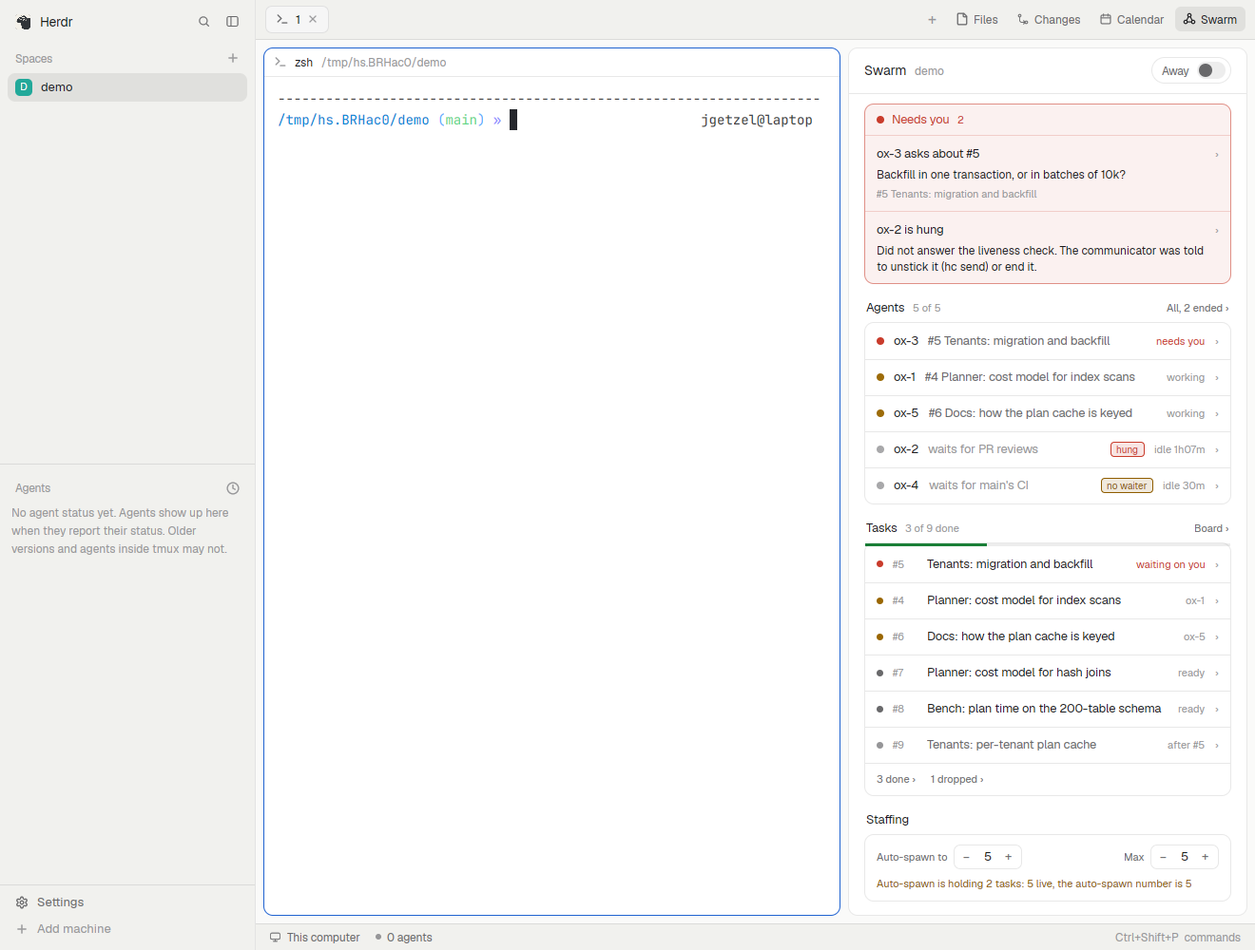
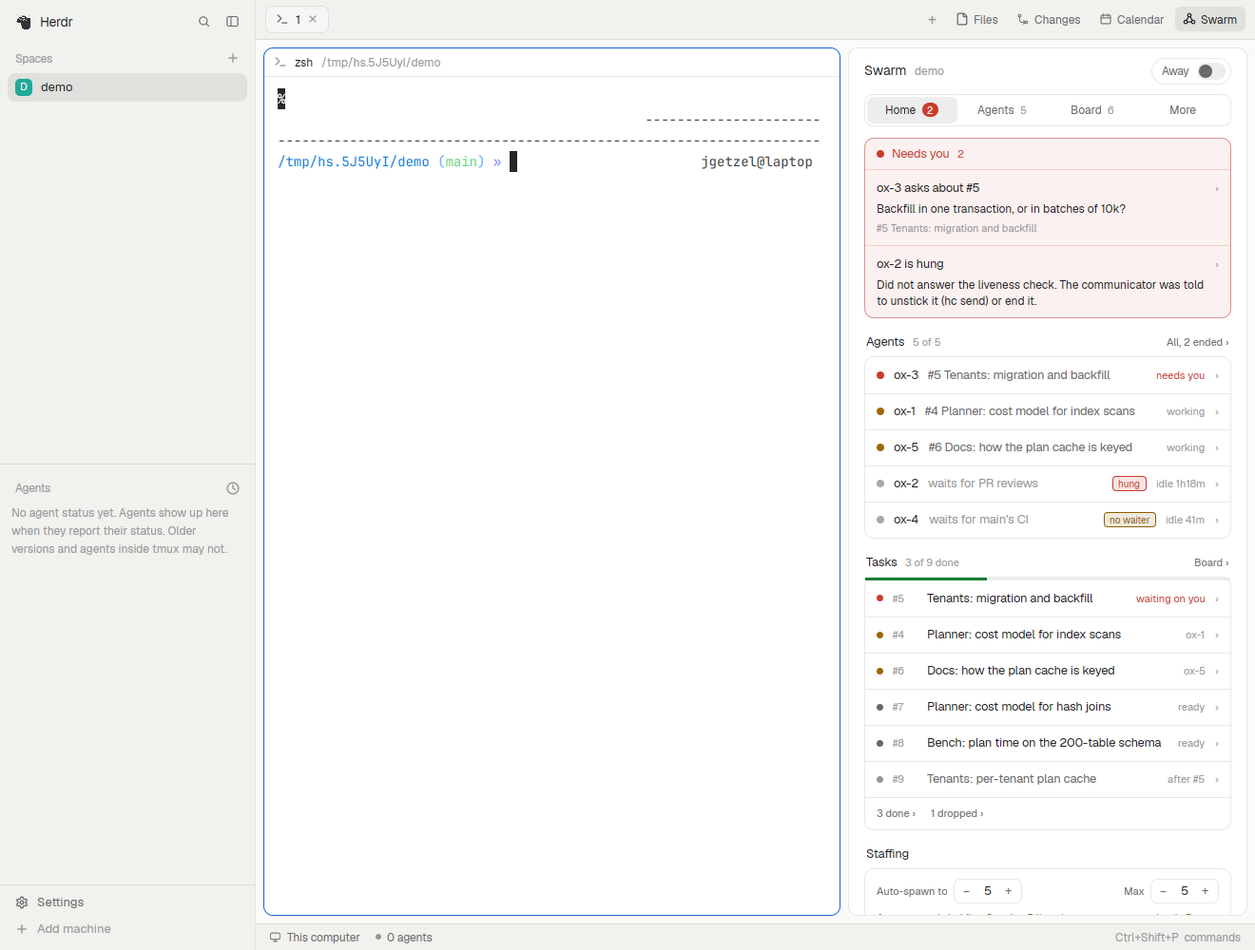
swarm panel redesign, revision 2: nav bar, why-kept section, wider action list (board #39)
Swarm-Agent: ll-ui

diff --git a/swarm/herdr/mods/swarm/main.js b/swarm/herdr/mods/swarm/main.js
@@ -137,7 +137,7 @@ export default class Swarm extends View {
   init(_props, cx) {
     this.s = null; this.prs = null; this.runs = null; this.error = null;
     this.seen = new Set(); this.fresh = new Set(); this.delay = new Map(); this.open = {}; this.width = 520;
-    this.stack = SCREEN === "home" ? [route(SCREEN)] : [{ s: "home" }, route(SCREEN)]; this.flash = null; this.pending = null; this.actFilter = "all";
+    const r0 = route(SCREEN); this.stack = r0.s === "task" ? [{ s: "board", f: "active" }, r0] : r0.s === "agent" ? [{ s: "agents" }, r0] : [r0]; this.flash = null; this.pending = null; this.actFilter = "all";
     this.refresh(cx); this.copyIcons(cx);
     // Data timers only; each tick returns at once while the panel isn't shown or nothing is due.
     cx.timer.every(POLL, cx => { if (this.visible() && this.due()) this.refresh(cx); });
@@ -266,9 +266,11 @@ export default class Swarm extends View {
   }
 
   // ---- screens and actions -------------------------------------------------------------------
-  // A screen opens on top of the last one and slides in; ‹ goes back. Rows re-run their staggered entrance.
+  // The nav bar's four sections are roots. A task or an agent opens on top of the screen it was picked on and
+  // slides in; ‹ goes back. Rows re-run their staggered entrance.
   push(r, cx) {
-    if (JSON.stringify(r) !== this.view()) this.stack.push(r);
+    if (r.s !== "task" && r.s !== "agent") this.stack = [r];
+    else if (JSON.stringify(r) !== this.view()) this.stack.push(r);
     this.landed(cx);
   }
   back(cx) { if (this.stack.length > 1) this.stack.pop(); this.landed(cx); }
@@ -444,7 +446,7 @@ export default class Swarm extends View {
   agentRow(t, a, i, d) {
     const ended = a.status === "ended", sign = !ended && SIGN[a.stay_sign];
     const what = a.task ? `#${a.task.id} ${a.task.title}` : ended ? [a.model, a.ended ? `ended ${hhmm(a.ended)}` : null].filter(Boolean).join(" · ") : a.stay ? `waits for ${a.stay}` : "no task";
-    const right = ended ? "" : a.status === "working" ? "working" : a.status === "blocked" ? "needs you" : `idle ${ago(a.idle_s)}`;
+    const right = ended ? "" : a.status === "working" ? "working" : a.status === "blocked" ? "needs you" : `idle ${ago(a.idle_s)}${a.fate?.short ? `: ${a.fate.short}` : ""}`;
     return this.row(t, `agent-${a.name}`, i, cx => this.push({ s: "agent", name: a.name }, cx))
       .child(this.dot(this.statusColor(t, a.status)).when(a.status === "working", el => el.loop("opacity", { from: 0.35, to: 1, period: 1400 })))
       .child(div().flex_none().font_semibold().text_color(ended ? t.muted : t.foreground).child(a.name))
@@ -528,20 +530,11 @@ export default class Swarm extends View {
           .child(this.more(t, "done-link", `${nd} done ›`, cx => this.push({ s: "board", f: "done" }, cx)))
           .when(ndrop > 0, el => el.child(this.more(t, "drop-link", `${ndrop} dropped ›`, cx => this.push({ s: "board", f: "dropped" }, cx))))));
     const staff = v_flex().min_w(0).child(this.title(t, "Staffing")).child(this.group(t, "g-staff").px(12).py(10).child(this.staffing(t)));
-    const alert = d.reds > 0 || s.conflicts.length > 0 || s.pressure.some(p => !p.end) || s.machine?.high;
-    const last = this.actRows(t, d, "all")[0];
-    const more = v_flex().min_w(0).child(this.title(t, "More")).child(this.group(t, "g-more")
-      .child(this.row(t, "m-act", 0, cx => this.push({ s: "more", tab: "activity" }, cx)).child(div().flex_none().child("Activity"))
-        .child(div().flex_1().min_w(0).truncate().text_size(11).text_color(t.dim).child(last ? `${hhmm(last.ts)} ${last.who} ${last.text}` : "what happened, and the full log"))
-        .child(this.chev(t, "right")))
-      .child(this.row(t, "m-sys", 1, cx => this.push({ s: "more", tab: "system" }, cx)).child(div().flex_none().child("System"))
-        .child(div().flex_1().min_w(0).truncate().text_size(11).text_color(t.dim).child("CI, pull requests, machine, locks, command cost"))
-        .when(Boolean(alert), el => el.child(this.dot(t.blocked, 6))).child(this.chev(t, "right"))));
     const att = this.attention(t, d);
     if (two) return h_flex().gap(16).items_start()
-      .child(v_flex().gap(10).min_w(0).flex_grow(1).flex_basis(0).child(att).child(agents).child(staff))
-      .child(v_flex().gap(10).min_w(0).flex_grow(1).flex_basis(0).child(tasks).child(more));
-    return v_flex().gap(10).child(att).child(agents).child(tasks).child(staff).child(more);
+      .child(v_flex().gap(10).min_w(0).flex_grow(1).flex_basis(0).child(att).child(agents))
+      .child(v_flex().gap(10).min_w(0).flex_grow(1).flex_basis(0).child(tasks).child(staff));
+    return v_flex().gap(10).child(att).child(agents).child(tasks).child(staff);
   }
 
   // ---- Agents: running, the communicator, ended -------------------------------------------------
@@ -689,6 +682,14 @@ export default class Swarm extends View {
         .child(task ? this.group(t, "a-task", task.state === "blocked").child(this.taskRow(t, task, 0))
             .when(task.state === "blocked", el => el.child(div().px(12).pb(10).line_height("17px").whitespace_normal().child(one(task.question))))
           : this.empty(t, isComms ? "No task: the communicator is your channel to the swarm" : a.stay ? `No task: it waits for ${a.stay}` : "No task")))
+      // state --json's fate: watchd's verdict on an idle agent and each check behind it; the panel never re-derives it.
+      .when(Boolean(a.fate), el => el.child(v_flex().child(this.title(t, a.fate.verdict === "end" ? "Why it is about to end" : "Why it is still here", "watchd's own checks"))
+        .child(this.group(t, "a-fate")
+          .child(div().px(12).py(9).line_height("17px").whitespace_normal().child(a.fate.says))
+          .children(a.fate.checks.map((c, i) => this.row(t, `a-fate-${i}`, 1).h(30).text_size(12)
+            .child(this.dot(c.on ? t.ansi3 : t.selected, 7))
+            .child(div().flex_none().text_color(c.on ? t.foreground : t.dim).child(c.label))
+            .child(div().flex_1().min_w(0).truncate().text_right().text_color(t.dim).child(c.detail ?? "")))))))
       .child(this.facts(t, "a-facts", [
         a.stay ? ["Waits for", a.stay] : null,
         ["Model", [a.model ?? "?", a.started ? `started ${hhmm(a.started)}` : null, a.hc ? `terminal ${a.hc}` : null].filter(Boolean).join(" · ")],
@@ -1060,6 +1061,26 @@ export default class Swarm extends View {
       .child(this.link(t, "flash-x", "Dismiss", cx => { this.flash = null; cx.notify(); }).pt(5));
   }
 
+  // Home, Agents, Board, More on every screen, the shown screen's section marked: a task counts as Board, an
+  // agent as Agents. Four equal segments of the panel's width; the mark slides. Home's badge counts what needs
+  // you, More's dot is a System problem. At 340px and below the counts go and the labels stay.
+  navBar(t, d) {
+    const s = this.s, r = this.r, cur = r.s === "task" ? "board" : r.s === "agent" ? "agents" : r.s;
+    const need = this.needs(t, d).length, left = d.count("blocked") + d.count("claimed") + d.count("open"), tiny = this.width <= 340;
+    const alert = d.reds > 0 || s.conflicts.length > 0 || s.pressure.some(p => !p.end) || s.machine?.high;
+    const items = [["home", "Home", need || null, true], ["agents", "Agents", d.live.length], ["board", "Board", left], ["more", "More", alert ? "" : null, true]];
+    const w = (this.width - 2 - 32 - 6) / 4, at = Math.max(0, items.findIndex(i => i[0] === cur));
+    return div().flex_none().mx(16).mb(2).relative().h(34).rounded(9).bg(t.surface).border_1().border_color(t.border)
+      .child(div().id("nav-on").absolute().top(2).left(2 + at * w).w(w).h(28).rounded(7).bg(t.selected).transition("left", { duration: 180, easing: "ease-out" }))
+      .children(items.map(([id, label, n, red], i) => h_flex().id(`nav-${id}`).absolute().top(2).left(2 + i * w).w(w).h(28).gap(6).justify_center().items_center().rounded(7)
+        .text_size(12).cursor_pointer().text_color(id === cur ? t.foreground : t.muted).when(id === cur, el => el.font_semibold())
+        .hover(st => st.text_color(t.foreground)).on_click((_e, cx) => this.push(id === "board" ? { s: id, f: "active" } : id === "more" ? { s: id, tab: "activity" } : { s: id }, cx))
+        .child(label)
+        .when(n === "", el => el.child(this.dot(t.blocked, 6)))
+        .when(Boolean(n) && !tiny, el => el.child(red ? div().px(5).h(15).flex().items_center().rounded(8).bg(t.blocked).text_color(t.background).text_size(10).font_semibold().child(String(n))
+          : div().text_size(11).font_normal().text_color(t.dim).child(String(n))))));
+  }
+
   // Home is two columns from 760px; every other screen is one column, at most 720px wide. The Activity and
   // System code keeps its own breakpoints (760, 640, 520, 340).
   draw(t) {
@@ -1072,27 +1093,29 @@ export default class Swarm extends View {
         .child(note(this.error ?? (this.loading || !s ? "loading…" : "No live swarm in this repo")));
     }
     const d = this.derive(), away = s.away;
-    const name = { agents: "Agents", board: "Board", task: `Task #${r.id}`, agent: r.name, more: "More" }[r.s] ?? "Swarm";
     const toggle = h_flex().id("away").flex_none().h(28).pl(10).pr(5).gap(8).items_center().rounded(14).border_1().border_color(away ? t.accent : t.border).bg(away ? t.accent + "1c" : t.surface).cursor_pointer()
       .tooltip(away ? "You are away. Click when you are back." : "Going away? Questions will wait here instead of pinging you.")
       .on_click((_e, cx) => this.act(cx, away ? ["away", "--back"] : ["away"]))
       .child(div().text_size(11.5).text_color(away ? t.foreground : t.muted).child("Away"))
       .child(div().relative().w(30).h(18).rounded(9).bg(away ? t.accent : t.selected)
         .child(div().id("away-knob").absolute().top(2).left(away ? 14 : 2).size(14).rounded(7).bg(away ? t.accent_foreground : t.muted).transition("left", { duration: 160, easing: "ease-out" })));
-    const head = h_flex().h(48).flex_none().px(16).gap(8).items_center().min_w(0).border_b(1).border_color(t.border)
-      .when(deep, el => el.child(div().id("back").size(28).ml(-6).flex().flex_none().items_center().justify_center().rounded(7).text_size(18).text_color(t.muted).cursor_pointer()
-        .hover(st => st.bg(t.hover).text_color(t.foreground)).on_click((_e, cx) => this.back(cx)).child("‹")))
-      .child(div().flex_none().font_semibold().text_size(14).child(name))
-      .when(!deep, el => el.child(div().truncate().min_w(0).text_size(12).text_color(t.dim).child(base(this.cwd))))
+    const head = h_flex().h(48).flex_none().px(16).gap(8).items_center().min_w(0)
+      .child(div().flex_none().font_semibold().text_size(14).child("Swarm"))
+      .child(div().truncate().min_w(0).text_size(12).text_color(t.dim).child(base(this.cwd)))
       .child(div().flex_1()).child(toggle);
+    const prev = deep ? this.stack.at(-2) : null;
+    const backRow = deep ? h_flex().flex_none().h(32).px(10).items_center().child(h_flex().id("back").h(24).px(6).gap(6).items_center().rounded(6).text_size(12).text_color(t.muted).cursor_pointer()
+      .hover(st => st.bg(t.hover).text_color(t.foreground)).on_click((_e, cx) => this.back(cx))
+      .child(div().text_size(15).child("‹")).child({ home: "Home", agents: "Agents", board: "Board", more: "More", task: `Task #${prev.id}`, agent: prev.name }[prev.s])) : null;
     const body = r.s === "agents" ? this.agentsScreen(t, d) : r.s === "board" ? this.board(t, d) : r.s === "task" ? this.task(t, d)
       : r.s === "agent" ? this.agentScreen(t, d) : r.s === "more" ? this.moreScreen(t, d) : this.home(t, d);
     const k = `scr:${this.stack.length}:${r.s}:${r.id ?? r.name ?? ""}`, { first } = deep ? this.enter(k, false) : { first: false };
     const wide = r.s === "more" || (r.s === "home" && this.width >= 760), waiting = this.needs(t, d).length;
-    const page = v_flex().id(k).relative().w_full().max_w(wide ? 1400 : 720).px(r.s === "more" ? 0 : 16).pt(10).pb(16)
+    const page = v_flex().id(k).relative().w_full().max_w(wide ? 1400 : 720).px(r.s === "more" ? 0 : 16).pt(deep ? 2 : 10).pb(16)
       .left(first ? 20 : 0).opacity(first ? 0 : 1).transition("left", { duration: 200, easing: "ease-out" }).transition("opacity", { duration: 200, easing: "ease-out" })
       .child(body);
-    return root.child(head)
+    return root.child(head).child(this.navBar(t, d))
+      .when(deep, el => el.child(backRow))
       .when(Boolean(away), el => el.child(h_flex().flex_none().px(16).py(7).gap(8).items_center().min_w(0).bg(t.accent + "14").border_b(1).border_color(t.border).text_size(11.5)
         .child(div().flex_1().min_w(0).whitespace_normal().line_height("16px").text_color(t.muted)
           .child(`Away since ${hhmm(away.since)}${away.note ? ` (${away.note})` : ""}. Questions wait here and nobody pings you${waiting ? `; ${waiting} waiting now` : ""}.`))))

diff --git a/swarm/herdr/REDESIGN.md b/swarm/herdr/REDESIGN.md
@@ -1,6 +1,6 @@
 # Swarm panel redesign (board #39)
 
-Status: **design, waiting for approval.** The shots below are a working prototype in this branch
+Status: **design, revision 2, waiting for approval.** Revision 2 adds the nav bar (§2), the "why it is still here" section (§2), and the wider list of actions (§3b); nothing in the CLI is built beyond what §6 names. The shots below are a working prototype in this branch
 (`ll-ui/39`), drawn by a private Herdr from a made-up swarm (`demo.lua`). The installed panel is untouched.
 
 Before, for comparison: [the current first screen](shots/redesign/before-home-520.png).
@@ -15,8 +15,8 @@ The panel is glanced at, not read. A glance should answer three questions, in th
 | 2 | Who is running, and on what? | **Agents**: one row each: status dot, name, its task (or what it waits for), state. | It tells you the swarm is alive and what to expect next. |
 | 3 | How much is left? | **Tasks**: a done bar, then the tasks still open, most urgent first; links to done and dropped. | It is the progress answer; details are one click away. |
 
-Below those, two things you act on rather than read: **Staffing** (the two numbers, with − and +) and
-**More** (Activity, System). The **Away** switch is in the header of every screen.
+Below those, the one thing you act on rather than read: **Staffing** (the two numbers, with − and +).
+The **Away** switch and the nav bar are on every screen.
 
 Moved off the first screen, to the screen where it is useful:
 
@@ -25,9 +25,10 @@ Moved off the first screen, to the screen where it is useful:
 | Model, cache state, context bar, last event, role chip per agent | The agent's screen. Home keeps only a warning chip (hung, no waiter, context full). |
 | Header chips (live, working, claimed, blocked, done counts) | Gone: the Agents and Tasks section titles carry the two counts that matter. |
 | Board card with five state counts and "latest done" | Tasks list on Home; the Board screen for everything. |
-| Activity feed | More › Activity (Home shows its latest line). |
+| Activity feed | More › Activity. |
 | Machine footer, CI runs, PRs, locks, command cost, memory per agent | More › System. A problem there surfaces in Needs you. |
-| Five tabs | No tabs. Home, and screens that open from it with a back arrow. |
+| Five tabs (Overview, Agents, Board, Activity, System) | A nav bar of four: Home, Agents, Board, More. |
+| "idle 31m" on an agent, with no reason | "idle 31m: uncommitted work": the first reason watchd keeps it (§2). |
 
 ![Home, 520px](shots/redesign/home-520.png)
 
@@ -35,21 +36,33 @@ From 760px Home is two columns; in light themes it uses the same theme colors:
 
 ![Home, 860px](shots/redesign/home-860.png)
 ![Home, 420px, light](shots/redesign/home-420-light.png)
+![Home, 420px](shots/redesign/home-420.png)
 
 ## 2. Screens
 
+### The nav bar
+
+**Home · Agents · Board · More**, under the header of every screen.
+
+- The section of the shown screen is marked, and the mark slides to the one you pick. A task counts
+  as Board, an agent as Agents, wherever you opened it from.
+- Badges: Home carries a red count of what needs you (so it is visible from any screen), Agents the
+  number running, Board the tasks left, More a red dot when System has a problem.
+- A task or an agent opens on top of the screen you picked it on. Those screens get a back row under
+  the bar, named after where back goes ("‹ Board", "‹ Home", "‹ Task #5"). Picking a section in the
+  bar always goes to that section's own screen and forgets the trail.
+- Width: four equal segments of the panel's width. At 420px each is 95px, enough for the label and
+  its count (shot above). At 340px and below the counts are dropped and the labels stay; the red Home
+  badge and the More dot stay at every width.
+
 ```
-Home ─┬─ a Needs-you item ──► the task, the agent, or More › System
-      ├─ an agent row ──────► Agent
-      ├─ "All, N ended ›" ──► Agents (running, communicator, ended) ──► Agent
-      ├─ a task row ────────► Task
-      ├─ "Board ›" / "N done ›" / "N dropped ›" ──► Board (Active | Done | Dropped) ──► Task
-      └─ More ──────────────► Activity (Summary | Full log, filters) | System
+Home    ── Needs you, Agents, Tasks, Staffing
+Agents  ── running, the communicator, ended ──► Agent
+Board   ── Active | Done | Dropped ───────────► Task
+More    ── Activity (Summary | Full log, filters) | System
 Task  ──► its owner (Agent), tasks it waits on or holds back (Task), its PR (browser)
 Agent ──► its task and finished tasks (Task), its terminal (Herdr focus), its PR (browser)
 ```
-
-Every screen below Home has `‹` in the header; screens stack, so back returns where you came from.
 
 **Task.** State, title, actions; the question when it waits on you; owner and lease, who added it,
 what it waits on and holds back, time queued/worked/blocked, claims and releases, model and base,
@@ -65,6 +78,33 @@ tasks it finished; latest events. Ended agents open the same screen, without act
 
 ![Agent](shots/redesign/agent-520.png)
 ![Hung agent, light](shots/redesign/agent-hung-420-light.png)
+
+**Why an idle agent is still here.** On the Agent screen of an idle agent: the conclusion in words,
+then one line per check, lit when that check is what keeps it. The shot uses sample data; the real
+lines come from the CLI.
+
+![Why it is still here](shots/redesign/agent-why-kept-520.png)
+
+The panel does not work this out. `swarm state --json` gains a `fate` object per live idle agent, filled
+by the function watchd itself decides with (`watchd.fate`, and the checks of `swarm end`):
+
+| Line | From | Detail shown |
+|---|---|---|
+| Stays | the agent's `stay` | its text, how long |
+| Holds a task | claimed or blocked tasks | which, lease left |
+| Holds a lock | its locks | the paths |
+| Work not on its base | `watchd.unlanded` | uncommitted files (count), commits not on the base (count, PR if any) |
+| Background process | `machine.bg_agents` | the command, how long |
+| Unread messages | its inbox | how many, urgent or not |
+| Terminal | hc | busy, idle, gone, or in another repo |
+| Waiter | its waiter pid | present, or gone (no message can wake it) |
+| Idle | last activity | how long, against watchd's 2 minutes |
+| Context | context size, the task pool | small enough to be given another task, or not |
+
+`fate.verdict` is watchd's own word (kept, unclean, reuse, end) and `fate.says` the sentence: "watchd
+ends it at its next tick", "Kept: 2 uncommitted files and a running shell", "Kept for reuse: #7 is
+ready". `fate.short` is the Home chip ("uncommitted work"). The agent's screen asks for every check;
+Home asks only for the first one that holds, which is what watchd already computes each tick.
 
 **Agents** and **Board** are the past-items screens: ended agents, done and dropped tasks.
 
@@ -101,6 +141,38 @@ own confirmation. Confirmations use Herdr's own confirm dialog (Enter confirms, 
 ![End confirmation](shots/redesign/agent-end-confirm-520.png)
 ![Release confirmation](shots/redesign/task-release-confirm-520.png)
 ![A refusal](shots/redesign/agent-end-refused-520.png)
+
+## 3b. More actions: what I would add, and what I would leave out
+
+Text fields (answer, message, new task) are a single input with a Send button; Enter sends, Esc clears.
+
+| Action | Verdict | Where | Command | Confirmation |
+|---|---|---|---|---|
+| Answer a waiting task | **Add.** It is the one thing Needs you asks of you. | the question card on Task | `swarm task unblock N --answer "…"` | none; Send is deliberate |
+| Nudge an agent | **Add.** Shown on an agent that is hung, or idle while holding a task. | Agent; the hung item in Needs you | new `swarm nudge NAME`: sends its terminal one fixed line ("read your messages and continue, or say what you wait for") through hc and logs it | none; the button rests for a minute after use |
+| Message an agent | **Add.** | Agent | `swarm post NAME "…"`, with an Urgent tick that adds `--urgent` | none |
+| Message @all | **Leave out.** It wakes every agent, each paying to reload its context, and one click should not cost that. Tell the communicator, which knows who needs to hear it. | | | |
+| Add a task | **Add,** title and description first; "after" and model behind "More options". | Board, "+ New task" | `swarm task add "title" --body … [--after 3,5] [--model m]` | none |
+| Drop a task | **Add.** | Task, beside Release | `swarm task drop N` | "Drop #N? It leaves the board for good; tasks that wait on it stay held." |
+| Spawn an agent on a ready task | **Leave out.** Auto-spawn already does it with watchd's own naming, model and memory rules; "Auto-spawn to +" is the same wish in one click. A second way to start agents would bypass those rules. | | | |
+| Pause / resume auto-spawn | **Add.** One button beside the steppers: "Pause" sets the number to 0 and remembers it, "Resume (5)" puts it back. | Home › Staffing | `swarm limits --min 0` / `--min 5` | none |
+| Open main's failing CI run | **Keep** (it exists on System); also on the red-main item in Needs you. | Needs you, System | browser | none |
+| Re-run the failed jobs | **Add.** | the same two places | `gh run rerun ID --failed` | "Re-run the failed jobs of run ID?" It spends CI minutes, and an agent may be mid-fix. |
+| watchd health | **Add the display.** watchd dead goes to Needs you ("nothing is reaped, spawned or told"); watchd older than the swarm code is a warning on System. | Needs you, System | `swarm state` gains watchd's pid, start time and whether it is alive | |
+| Restart watchd | **Add, if you want it:** it needs watchd to record the flags it was started with, so the restart is the same watchd. | System, and the dead-watchd item | new `swarm watchd --restart` (takeover with the recorded flags, in a hidden hc terminal) | "Restart watchd?" |
+| main green / red / pending on Home | **Add.** A quiet dot and word in the header beside the repo name; red also stays in Needs you. Read from the CI table watchd already fills, which lets the panel stop running its own `gh run list` every minute. | header | `swarm state` gains `ci` (latest run on the base) | |
+
+Mine:
+
+| Action | Verdict | Where | Command | Confirmation |
+|---|---|---|---|---|
+| Talk to the communicator | **Add.** Many things are still "tell the communicator". | header, a small "Communicator ↗" | Herdr `agent.focus` on its terminal | none |
+| End an agent's stay | **Add.** When the checks say only its stay keeps an agent, this lets watchd end it the normal way, with every other check still applied. Gentler than End anyway. | the Stays line of "Why it is still here" | `swarm stay --end` for another agent (new: `human` or the communicator may) | "End ox-4's stay? watchd then ends it once its work is on main." |
+| Free someone's lock | **Leave out.** Rare, and a wrong click lets two agents write one migration number. Ending the agent frees its locks. | | | |
+| Renew a lease, claim a task for an agent | **Leave out.** watchd already keeps a working owner's claim; the rest is the agents' own business. | | | |
+
+New CLI this list needs, beyond §3 and §4: `swarm nudge`, `stay --end` for another agent,
+`watchd --restart` with recorded flags, and `state --json` fields `fate`, `ci`, `watchd`.
 
 ### Who the panel acts as
 
@@ -156,22 +228,32 @@ model and its replay traces are updated with it. `away`, `--back` and the new ri
 
 ## 6. What the prototype already does, and what the build adds
 
-Real now: every screen and its navigation, the limit steppers, the confirm dialogs, the refusal bar,
+Real now: the nav bar, every screen and its navigation, the limit steppers, the confirm dialogs, the
+refusal bar, the "why it is still here" section (drawn from `fate`, which no CLI sends yet),
 `swarm state --json --task N` (body, events, messages of one task), a bare `swarm away` flag that the
-switch toggles.
+switch toggles. Nothing else in the CLI is touched until you approve.
 
-Build, after approval:
+Build, after approval, as board tasks:
 
-1. **CLI** (one board task): `human` rights for `end` and `task release`, the message to the ex-owner,
-   away's four rules, `--back`'s digest, tests, `swarm/model` for rule 1.
-2. **Panel** (one board task): the "while you were away" card, Activity and System in the new scale,
-   delete the old tabs' leftover code, shots of every screen at 420/520/860 in dark and light, actions
-   exercised against a scratch db, `SKILL.md`, `install.sh` check, then merge.
+1. **CLI: rights and away.** `human` rights for `end` and `task release`, the message to the ex-owner,
+   away's four rules, `--back`'s digest, tests, `swarm/model` for away's rule 1.
+2. **CLI: state and the new commands.** `fate`, `ci`, `watchd` in `state --json`; `nudge`; `stay --end`
+   for another agent; `watchd --restart`; tests.
+3. **Panel.** The actions of §3b you keep, the text input, the "while you were away" card, Activity and
+   System in the new scale, delete the old tabs' leftover code, shots of every screen at 420/520/860 in
+   dark and light, actions exercised against a scratch db, `SKILL.md`, `install.sh` check, then merge.
 
 ## 7. Questions for you
 
+Still open from revision 1 (the communicator recommends yes to all three; you have not said):
+
 1. **Away**: are the four rules right? In particular rule 3 (work continues at your numbers).
-2. **Answer from the panel** (not asked for): a text field on a waiting task that runs
-   `swarm task unblock N --answer "…"`. It would make Needs you fully actionable here. Add it?
+2. **Answer from the panel**: a text field on a waiting task that runs `swarm task unblock N --answer "…"`. Add it?
 3. **Acting as `human`** with the communicator's rights: fine, or should the panel act as the communicator?
-4. Anything on Home you want back, or gone?
+
+New:
+
+4. **§3b**: which of the "Add" rows do you want, and do you agree with the four I would leave out
+   (@all, spawn on a task, free a lock, renew/claim)?
+5. **Restart watchd** from the panel: wanted? It is the one row that restarts the swarm's own daemon.
+6. **Why it is still here**: always open on an idle agent's screen (as drawn), or folded behind a click?
